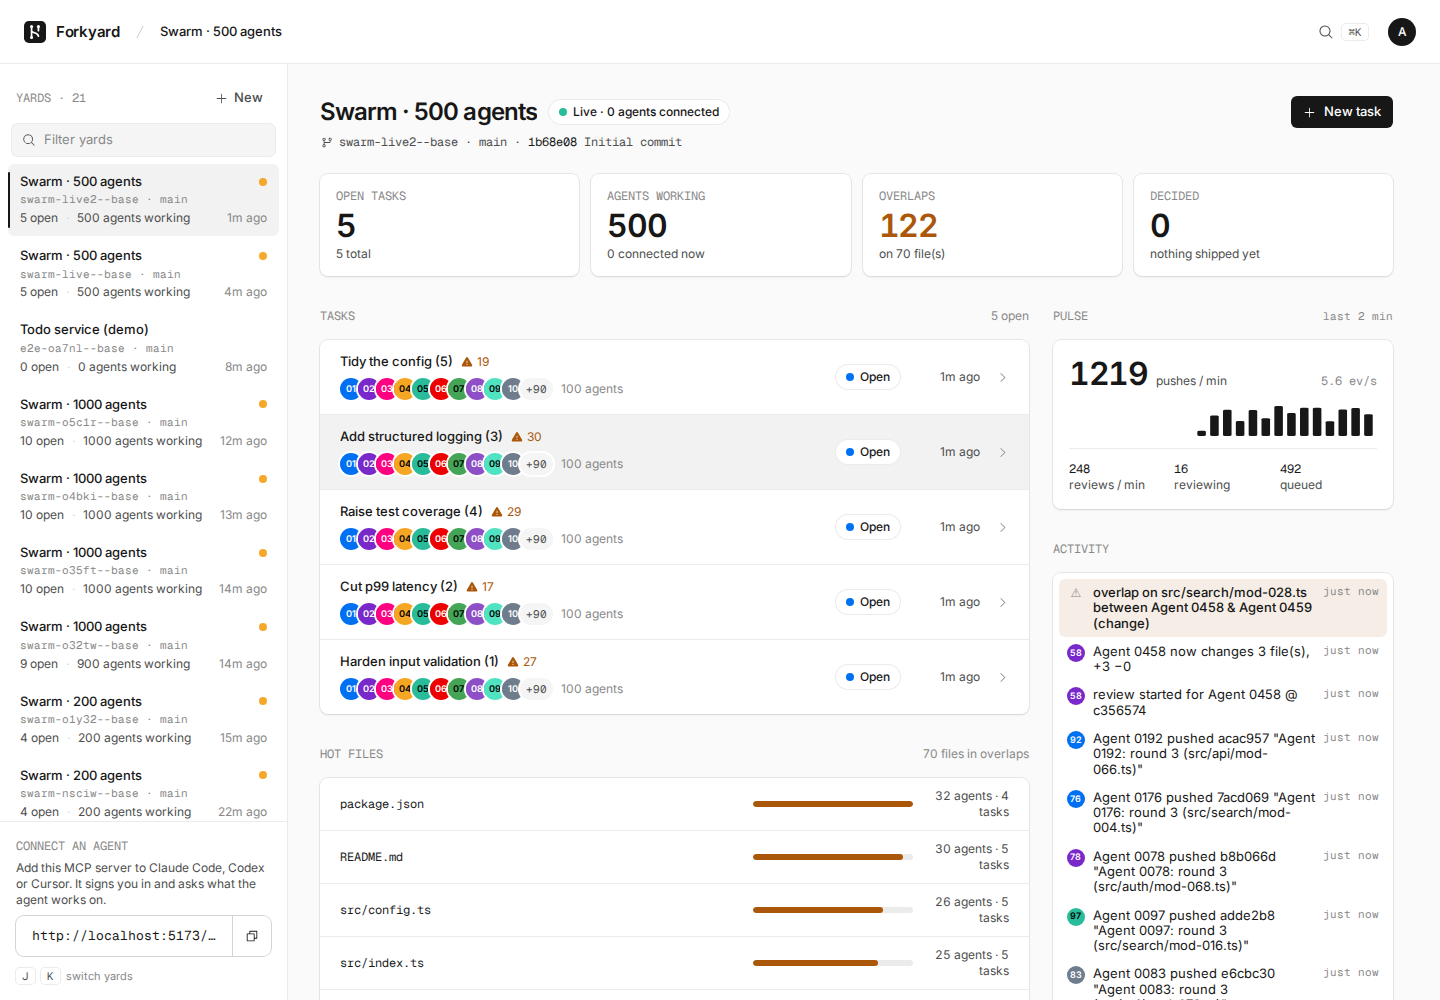
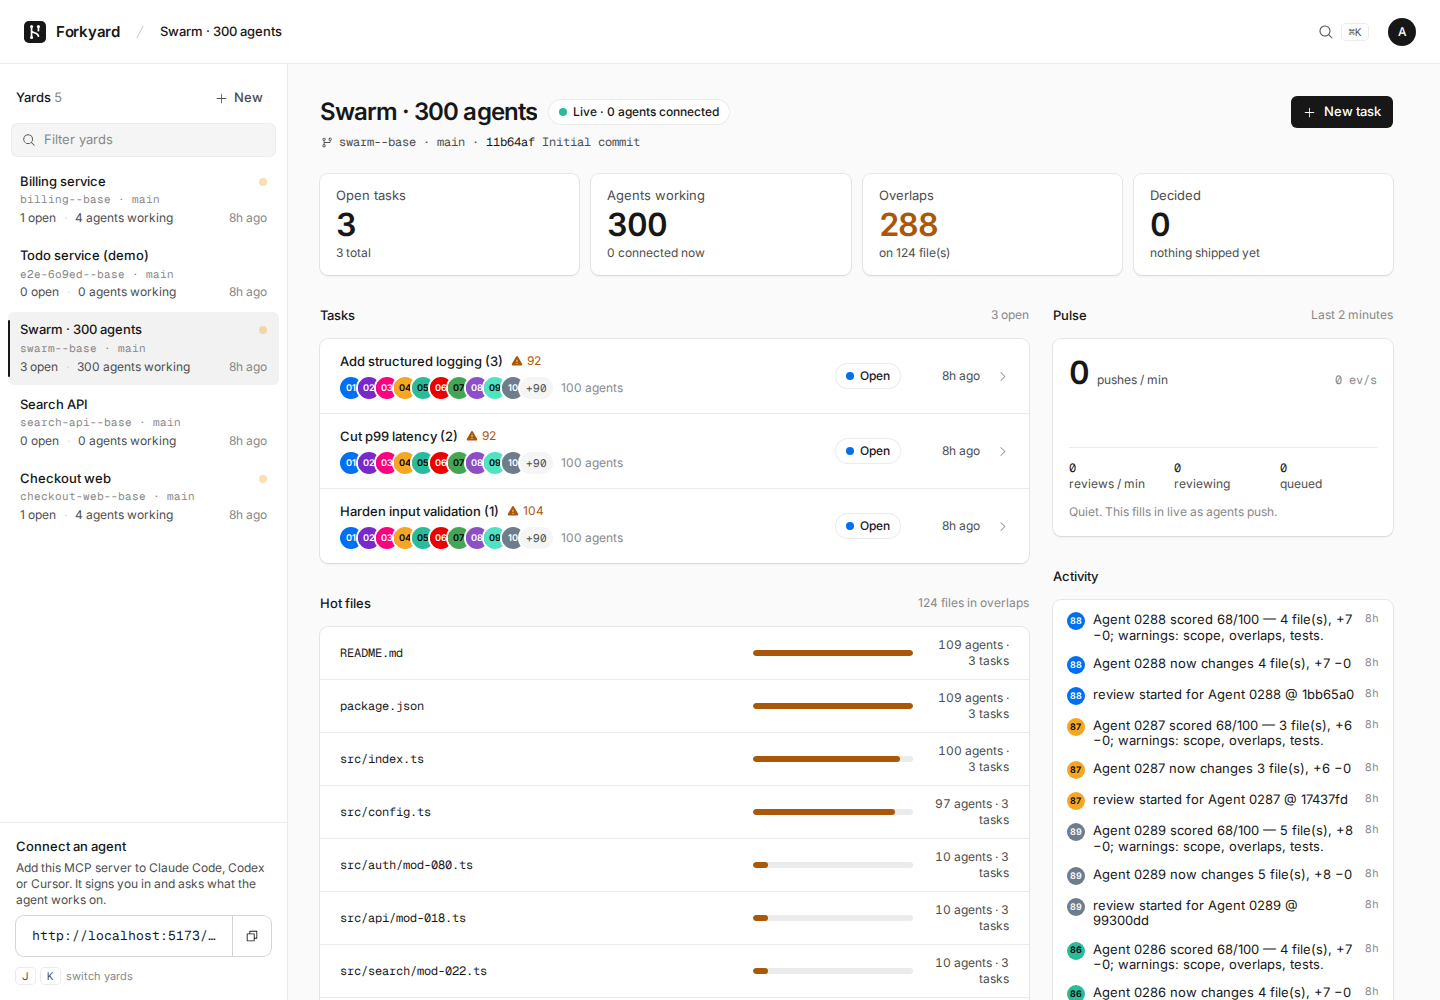
Drop mono-caps eyebrows for sentence-case section titles
Section headers, stat labels and table headers were 12px mono uppercase,
borrowed from Vercel's marketing site. Product screens title sections in
sentence-case sans, so: SectionTitle (14/500, fg) replaces Eyebrow, stat
labels and table headers go sentence-case sans, and mono is kept only for
literally technical values (paths, hashes, branch names, harness ids).

Claude-Session: https://claude.ai/code/session_01GTQB9T2WeBVf4yDsAhG424

diff --git a/apps/web/src/pages/Overview.tsx b/apps/web/src/pages/Overview.tsx
@@ -8,7 +8,7 @@ import { useEffect, useMemo, useState } from "react";
 import { AgentBadge, AgentStack } from "../components/AgentChip";
 import { CreateTaskDialog, CreateYardDialog } from "../components/CreateDialogs";
 import { STATUS, TaskStatusBadge } from "../components/Status";
-import { Button, Card, cx, Dot, Eyebrow, Kbd, Stat } from "../components/ui";
+import { Button, Card, cx, Dot, Kbd, SectionTitle, Stat } from "../components/ui";
 import type { YardList, YardStatus } from "../lib/api";
 import { useCommands } from "../lib/commands";
 import { ago } from "../lib/format";
@@ -85,7 +85,9 @@ function YardRail({ yards, loading, selected, onNew }: { yards: YardList; loadin
   return (
     <aside className="flex min-h-0 flex-col border-r border-line bg-surface max-md:hidden" aria-label="Yards">
       <div className="flex items-center justify-between px-4 pt-5 pb-3">
-        <Eyebrow>Yards · {yards.length}</Eyebrow>
+        <SectionTitle>
+          Yards <span className="font-normal text-muted tabular-nums">{yards.length}</span>
+        </SectionTitle>
         <Button size="sm" variant="ghost" icon={<Plus />} onClick={onNew} aria-label="New yard">
           New
         </Button>
@@ -126,7 +128,7 @@ function YardRail({ yards, loading, selected, onNew }: { yards: YardList; loadin
         {!loading && yards.length > 0 && shown.length === 0 && <p className="px-3 py-2 text-[13px] text-body">No yard matches “{q}”.</p>}
       </nav>
       <div className="border-t border-line p-4">
-        <Eyebrow>Connect an agent</Eyebrow>
+        <SectionTitle>Connect an agent</SectionTitle>
         <p className="mt-1.5 text-xs text-body">Add this MCP server to Claude Code, Codex or Cursor. It signs you in and asks what the agent works on.</p>
         <div className="mt-2">
           <ClipboardText text={`${location.origin}/mcp`} />
@@ -230,7 +232,7 @@ function YardOverview({ yard }: { yard: string }) {
       <div className="mt-6 grid grid-cols-[minmax(0,1fr)_340px] items-start gap-6 max-lg:grid-cols-1">
         <section aria-label="Tasks">
           <div className="mb-2 flex h-8 items-center justify-between">
-            <Eyebrow>Tasks</Eyebrow>
+            <SectionTitle>Tasks</SectionTitle>
             <span className="text-xs text-muted">{open.length} open</span>
           </div>
           {tasks.length === 0 ? (
@@ -248,7 +250,7 @@ function YardOverview({ yard }: { yard: string }) {
           {working.length > 0 && (
             <>
               <div className="mt-6 mb-2 flex h-8 items-center justify-between">
-                <Eyebrow>Agents on open tasks</Eyebrow>
+                <SectionTitle>Agents on open tasks</SectionTitle>
                 <span className="text-xs text-muted">{working.length} working</span>
               </div>
               <Card className="overflow-hidden">
@@ -274,7 +276,7 @@ function YardOverview({ yard }: { yard: string }) {
           <SwarmPulse yard={yard} reviews={s.reviews} pulse={s.pulse} />
           <section aria-label="Recent activity">
             <div className="mb-2 flex h-8 items-center">
-              <Eyebrow>Activity</Eyebrow>
+              <SectionTitle>Activity</SectionTitle>
             </div>
             <Card className="p-1.5">
               <ActivityFeed events={s.recent} status={s} now={now} />
@@ -282,7 +284,9 @@ function YardOverview({ yard }: { yard: string }) {
           </section>
           <section aria-label="Base branch">
             <div className="mb-2 flex h-8 items-center">
-              <Eyebrow>{s.yard.defaultBranch}</Eyebrow>
+              <SectionTitle>
+                Latest on <span className="font-mono text-[13px] font-normal">{s.yard.defaultBranch}</span>
+              </SectionTitle>
             </div>
             <Card className="divide-y divide-line">
               {base.isPending && (
@@ -378,7 +382,7 @@ function HotFiles({ status }: { status: YardStatus }) {
   return (
     <>
       <div className="mt-6 mb-2 flex h-8 items-center justify-between">
-        <Eyebrow>Hot files</Eyebrow>
+        <SectionTitle>Hot files</SectionTitle>
         <span className="text-xs text-muted">{byPath.size} files in overlaps</span>
       </div>
       <Card className="divide-y divide-line">
@@ -409,8 +413,8 @@ function SwarmPulse({ yard, reviews, pulse }: { yard: string; reviews: YardStatu
   return (
     <section aria-label="Live pulse">
       <div className="mb-2 flex h-8 items-center justify-between">
-        <Eyebrow>Pulse</Eyebrow>
-        <span className="font-mono text-[11px] text-muted">last 2 min</span>
+        <SectionTitle>Pulse</SectionTitle>
+        <span className="text-xs text-muted">Last 2 minutes</span>
       </div>
       <Card className="p-4">
         <div className="flex items-baseline gap-2">

diff --git a/apps/web/src/components/ui.tsx b/apps/web/src/components/ui.tsx
@@ -55,9 +55,9 @@ export function Card({ className, interactive, ...rest }: HTMLAttributes<HTMLDiv
   return <div className={cx("rounded-lg bg-surface shadow-card", interactive && "transition-shadow hover:shadow-card-hover", className)} {...rest} />;
 }
 
-/** Technical eyebrow: mono, uppercase, muted. */
-export function Eyebrow({ className, ...rest }: HTMLAttributes<HTMLDivElement>) {
-  return <div className={cx("font-mono text-xs uppercase text-muted", className)} {...rest} />;
+/** Section heading: sentence case, sans, 14/500. Never uppercase, never mono. */
+export function SectionTitle({ className, ...rest }: HTMLAttributes<HTMLHeadingElement>) {
+  return <h2 className={cx("text-sm font-medium text-fg", className)} {...rest} />;
 }
 
 export function Kbd({ children, className }: { children: ReactNode; className?: string }) {
@@ -73,7 +73,7 @@ export function Dot({ color, pulse, className }: { color: string; pulse?: boolea
 export function Stat({ label, value, caption, tone }: { label: string; value: ReactNode; caption?: ReactNode; tone?: "warn" }) {
   return (
     <Card className="px-4 py-3.5">
-      <Eyebrow>{label}</Eyebrow>
+      <div className="text-[13px] text-body">{label}</div>
       <div className={cx("mt-1 text-stat tabular-nums", tone === "warn" ? "text-overlap" : "text-fg")}>{value}</div>
       {caption && <div className="mt-0.5 truncate text-xs text-body">{caption}</div>}
     </Card>

diff --git a/apps/web/src/pages/TaskPage.tsx b/apps/web/src/pages/TaskPage.tsx
@@ -12,7 +12,7 @@ import { DecideView } from "../components/DecideView";
 import { FileTreePane } from "../components/FileTreePane";
 import { TaskStatusBadge } from "../components/Status";
 import { Timeline } from "../components/Timeline";
-import { Button, Card, Eyebrow } from "../components/ui";
+import { Button, Card, SectionTitle } from "../components/ui";
 import { useCommands } from "../lib/commands";
 import { useYardSync } from "../lib/live";
 import { usePersistent } from "../lib/persistent";
@@ -154,10 +154,10 @@ export function TaskPage({ yard, task, search }: { yard: string; task: string; s
 
       <div className="grid min-h-0 flex-1 grid-cols-[240px_minmax(0,1fr)] gap-6 px-6 pb-6">
         <aside className="flex min-h-0 flex-col">
-          <Eyebrow className="flex h-9 items-center justify-between">
-            <span>Files</span>
-            <span>{files.length}</span>
-          </Eyebrow>
+          <div className="flex h-9 items-center justify-between">
+            <SectionTitle>Files</SectionTitle>
+            <span className="text-xs text-muted tabular-nums">{files.length}</span>
+          </div>
           <Card className="min-h-0 flex-1 overflow-hidden">
             {files.length ? (
               <FileTreePane files={files} agents={agents} selected={selectedFile} onSelect={(p) => go({ file: p, view: view === "changes" ? undefined : "compare" })} />

diff --git a/apps/web/src/pages/BenchPage.tsx b/apps/web/src/pages/BenchPage.tsx
@@ -127,7 +127,7 @@ function RunsTable({ runs }: { runs: BenchRuns }) {
                 const sorted = h.column.getIsSorted();
                 const numeric = (h.column.columnDef.meta as { numeric?: boolean } | undefined)?.numeric;
                 return (
-                  <th key={h.id} className={cx("px-3 py-2 font-mono text-xs font-normal uppercase text-muted", numeric && "text-right")} aria-sort={sorted ? (sorted === "asc" ? "ascending" : "descending") : undefined}>
+                  <th key={h.id} className={cx("px-3 py-2 text-xs font-medium text-body", numeric && "text-right")} aria-sort={sorted ? (sorted === "asc" ? "ascending" : "descending") : undefined}>
                     <button onClick={h.column.getToggleSortingHandler()} className={cx("inline-flex items-center gap-1 hover:text-fg", sorted && "text-fg")}>
                       <table.FlexRender header={h} />
                       {sorted === "asc" ? <CaretUp size={10} /> : sorted === "desc" ? <CaretDown size={10} /> : null}

diff --git a/apps/web/src/pages/Login.tsx b/apps/web/src/pages/Login.tsx
@@ -2,7 +2,7 @@ import { GithubLogo, GoogleLogo } from "@phosphor-icons/react";
 import { useQuery } from "@tanstack/react-query";
 import { useState } from "react";
 import { Logo } from "../components/TopBar";
-import { Button, Eyebrow } from "../components/ui";
+import { Button } from "../components/ui";
 import { authClient, oauthInFlight } from "../lib/auth-client";
 
 type Provider = "github" | "google";
@@ -58,7 +58,7 @@ export function Login() {
           )}
           {info && !info.providers.length && <p className="text-sm text-body">Sign-in isn't configured on this deployment.</p>}
         </div>
-        {info?.emulated && <Eyebrow className="mt-6">Local · providers emulated by emulate.dev</Eyebrow>}
+        {info?.emulated && <p className="mt-6 text-xs text-muted">Running locally. GitHub and Google are emulated by emulate.dev.</p>}
       </div>
     </div>
   );

diff --git a/apps/web/src/pages/Connect.tsx b/apps/web/src/pages/Connect.tsx
@@ -3,7 +3,7 @@ import { useQuery } from "@tanstack/react-query";
 import { useState } from "react";
 import { AgentBadge } from "../components/AgentChip";
 import { Logo } from "../components/TopBar";
-import { Button, Eyebrow } from "../components/ui";
+import { Button, SectionTitle } from "../components/ui";
 import { call, client } from "../lib/api";
 import { authClient } from "../lib/auth-client";
 import { useMe } from "../lib/session";
@@ -79,7 +79,7 @@ export function Connect() {
           Choose whether it works as {user ? <b className="font-medium text-fg">{user.name}</b> : "you"} or as one agent seat.
         </p>
 
-        <Eyebrow className="mt-6 mb-2">Act as</Eyebrow>
+        <SectionTitle className="mt-6 mb-2">Act as</SectionTitle>
         {seats === null ? (
           <div className="py-6">
             <Loader />

diff --git a/apps/web/src/components/AgentBoard.tsx b/apps/web/src/components/AgentBoard.tsx
@@ -114,12 +114,12 @@ export function AgentBoard({ detail, compare, selected, onSelect }: { detail: Ta
             );
           })}
         </div>
-        <span className="ml-auto font-mono text-xs text-muted">
+        <span className="ml-auto text-xs text-muted tabular-nums">
           {data.length === all.length ? `${all.length} agents` : `${data.length} of ${all.length}`}
         </span>
       </div>
 
-      <div className={cx(GRID, "border-b border-line px-3 font-mono text-[11px] uppercase text-muted")} role="row">
+      <div className={cx(GRID, "border-b border-line px-3 text-xs font-medium text-body")} role="row">
         {table.getHeaderGroups()[0]!.headers.map((h) => {
           const sorted = h.column.getIsSorted();
           return (

diff --git a/DESIGN.md b/DESIGN.md
@@ -741,9 +741,9 @@ The brand uses STACKED shadows — multiple small offsets layered to fake natura
 
 Forkyard is an app, not a marketing page, so it uses the in-product half of this system:
 
-- **Tokens are Tailwind theme values.** `apps/web/src/styles.css` declares them once in `@theme` (`bg-page`, `bg-surface`, `text-fg`, `text-body`, `text-muted`, `border-line`, `bg-ink`/`text-on-ink`, `text-overlap`, `shadow-card`, `text-h1`…`text-h3`, `text-stat`); components use utilities only. The few primitives (Button, Card, Eyebrow, Kbd, Dot, Stat) live in `components/ui.tsx`.
+- **Tokens are Tailwind theme values.** `apps/web/src/styles.css` declares them once in `@theme` (`bg-page`, `bg-surface`, `text-fg`, `text-body`, `text-muted`, `border-line`, `bg-ink`/`text-on-ink`, `text-overlap`, `shadow-card`, `text-h1`…`text-h3`, `text-stat`); components use utilities only. The few primitives (Button, Card, SectionTitle, Kbd, Dot, Stat) live in `components/ui.tsx`.
 - **Surfaces.** Page `canvas-soft` (`#fafafa`; dark `#000`), cards `canvas` (`#fff`; dark `#0a0a0a`) held by an inset hairline ring plus the Level 2 stacked shadow (`<Card>`: `rounded-lg bg-surface shadow-card`). No marketing mesh gradient anywhere in the app.
-- **Type.** Inter (Variable) instead of Geist for everything, closer to Cloudflare's product typography (Forkyard is a Cloudflare-native tool); same weights and negative heading tracking. Geist Mono stays for code, hashes, file paths, numbers and section eyebrows (`<Eyebrow>`: `font-mono text-xs uppercase text-muted`). Headings 600 with negative tracking; never 700.
+- **Type.** Inter (Variable) instead of Geist for everything, closer to Cloudflare's product typography (Forkyard is a Cloudflare-native tool); same weights and negative heading tracking. Geist Mono stays for values that are literally technical: code, hashes, file paths, branch names, harness ids. **No eyebrows.** The marketing site's mono-caps section labels don't belong in a product UI, where every screen would carry a stack of them; Vercel's own dashboard titles sections in sentence-case sans. Section titles are `<SectionTitle>` (`text-sm font-medium text-fg`, an `h2`), stat labels and table headers are sentence-case sans (`text-[13px] text-body` / `text-xs font-medium text-body`), counts sit beside a title in `text-muted`. Nothing is uppercase. Headings 600 with negative tracking; never 700.
 - **Buttons.** In-app scale only: 6 px radius (`rounded.sm`). Primary is ink (`<Button variant="primary">`: `bg-ink text-on-ink`, `#171717` on light, `#ededed` with ink text on dark); secondary is white with a hairline.
 - **Status.** Vercel's deployment vocabulary: a coloured dot inside a hairline pill. Gray = queued/forking, amber = working, blue = pushed, cyan-green = reviewed ("Ready"), red = failed.
 - **Agent identity is the one exception to "no new accents".** Agents need distinct, stable colours, always paired with initials and name (never colour alone). The palette is drawn from the Geist scale (blue, violet, pink, amber, teal, red, green, purple, cyan, gray-blue).
